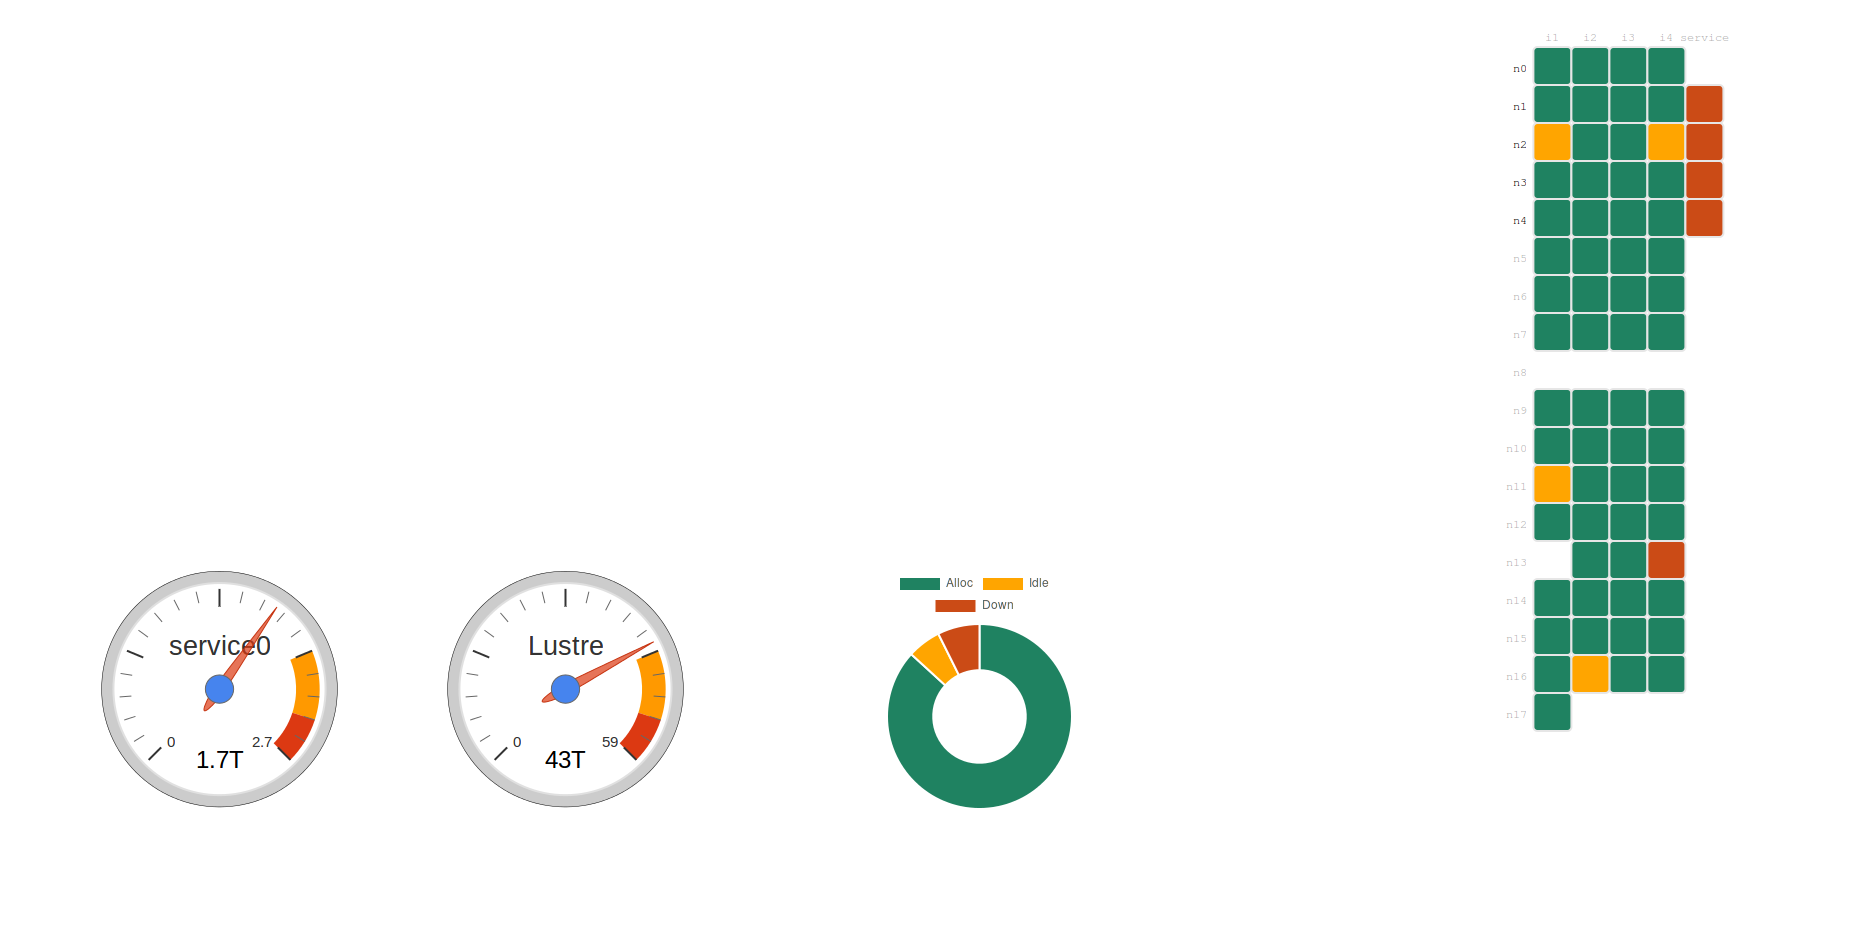
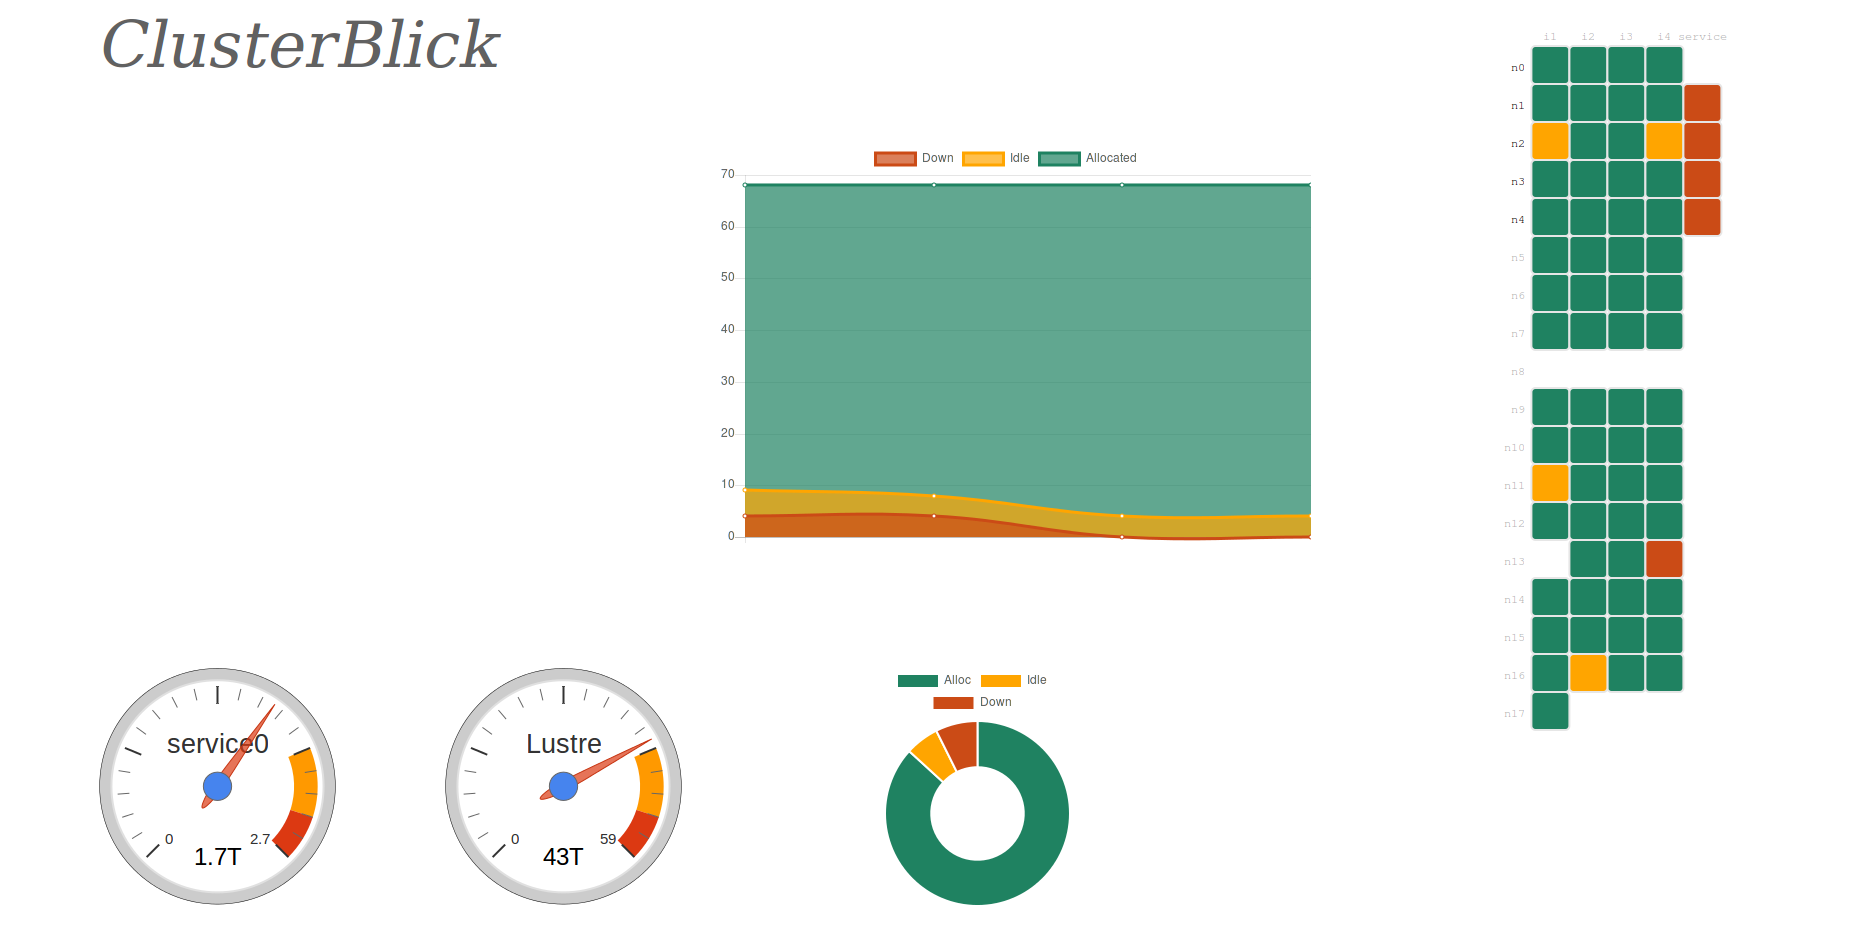
Adding sinfohist line chart and Update readme

diff --git a/host/app/js/sinfohist_line.js b/host/app/js/sinfohist_line.js
@@ -1,0 +1,71 @@
+var canvas = document.getElementById('updating-chart'),
+    ctx = canvas.getContext('2d'),
+
+    startingData = {
+      labels: label_hist,
+      datasets: [
+          {
+            label: "Down",
+            fill: true,
+            backgroundColor: "rgba(203, 75, 22, 0.7)",
+            borderColor: "rgba(203, 75, 22,1)",
+            pointBorderColor: "rgba(203, 75, 22,1)",
+            pointBackgroundColor: "#fff",
+            pointBorderWidth: 0,
+            pointHoverRadius: 10,
+            pointHoverBackgroundColor: "rgba(203, 75, 22,1)",
+            pointRadius: 2,
+            pointHitRadius: 10,
+            data: down_hist
+          },
+          {
+            label: "Idle",
+            fill: true,
+            backgroundColor: "rgba(255, 165, 0, 0.7)",
+            borderColor: "rgba(255, 165, 0,1)",
+            pointBorderColor: "rgba(255, 165, 0,1)",
+            pointBackgroundColor: "#fff",
+            pointBorderWidth: 0,
+            pointHoverRadius: 10,
+            pointHoverBackgroundColor: "rgba(255, 165, 0,1)",
+            pointRadius: 2,
+            pointHitRadius: 10,
+            data: idle_hist
+          },
+          {
+            label: "Allocated",
+            fill: true,
+            backgroundColor: "rgba(31, 130, 97,0.7)",
+            borderColor: "rgba(31, 130, 97,1)",
+            pointBorderColor: "rgba(31, 130, 97,1)",
+            pointBackgroundColor: "#fff",
+            pointBorderWidth: 0,
+            pointHoverRadius: 10,
+            pointHoverBackgroundColor: "rgba(31, 130, 97,1)",
+            pointRadius: 2,
+            pointHitRadius: 10,
+            data: alloc_hist
+          }
+
+      ]
+    };
+
+var sinfoHistChart = new Chart(ctx, {
+  type:'line',
+  data:startingData,
+  options: {
+          scales: {
+            xAxes: [{
+              display:false
+            }],
+            yAxes: [{
+              stacked: true,
+              ticks: {
+                  stepSize: 10
+              }
+            }]
+          },
+          responsive:false,
+          maintainAspectRatio: false
+      }
+});

diff --git a/host/app/index.html b/host/app/index.html
@@ -16,8 +16,10 @@
 
 		<script type="text/javascript" src="js/ssupervisor_dfh1.js"></script>
 		<script type="text/javascript" src="js/nodes_stats.js"></script>
+    <script type="text/javascript" src="js/sinfohist.js"></script>
 		<script type="text/javascript" src="js/actvgauges.js"></script>
     <script type="text/javascript" src="gridnodes.js"></script>
+
 
 		<script>
 			function initialize()
@@ -34,8 +36,15 @@
 			setInterval(function(){
 				reload_js("js/nodes_stats.js");
 				reload_js("js/ssupervisor_dfh1.js");
+        reload_js("js/sinfohist.js");
 				myDoughnutChart.chart.config.data.datasets[0].data=[stats.allocs,stats.idles,stats.downs];
 				myDoughnutChart.update();    //updating donut chart
+        console.log(sinfoHistChart.chart.config.data.datasets[0].data);
+        sinfoHistChart.chart.config.data.datasets[0].data = down_hist;
+        sinfoHistChart.chart.config.data.datasets[1].data = idle_hist;
+        sinfoHistChart.chart.config.data.datasets[2].data = alloc_hist;
+        sinfoHistChart.chart.config.data.labels = label_hist;
+				sinfoHistChart.update();    //updating donut chart
 
         heatmapChart(datasets[0],1); //updating node grid
 			}, 1000);
@@ -65,7 +74,14 @@
 	<body onload="initialize()">
       		<div class="container-fluid" id="left">
 
+            <div class="row title">
+              <p>ClusterBlick</p>
+            </div>
       			<div class="row graphs">
+              <div class="col-sm-4">
+                <div id="sinfohist"><canvas id="updating-chart" width="600" height="400"></canvas></div>
+                <script type="text/javascript" src="js/sinfohist_line.js"></script>
+              </div>
       			</div>
 
 
@@ -75,7 +91,7 @@
       					<span id="lustre"></span>
       				</div>
       				<div class="col-sm-3" >
-      					<div class="donutt"><canvas id="donut"></canvas></div>
+      					<div id="donutt"><canvas id="donut"></canvas></div>
       					<script type="text/javascript" src="js/doghnut.js"></script>
       				</div>
       			</div>

diff --git a/host/app/css/style.css b/host/app/css/style.css
@@ -25,15 +25,27 @@ html, body, .container-fluid{
 .graphs{
 	height: 60%;
 }
+.title p{
+	font-family: modern;
+	font-size: 64px;
+	font-style: oblique;
+	color: #616161;
+	margin-left: 100px;
+	margin-top: 10px;
+}
+
 .row .gauges{
 	padding-left:100px;
 }
 span{
 	margin-right:100px;
 }
-.donutt{
+#donutt{
 	padding-left:100px;
-
+}
+#sinfohist{
+	padding-left: 700px;
+	margin-top: 50px;
 }
 rect.bordered {
 	stroke: #E6E6E6;

diff --git a/host/app/js/sinfohist.js b/host/app/js/sinfohist.js
@@ -1,0 +1,4 @@
+var alloc_hist = [59, 60, 64, 64];
+var idle_hist = [5, 4, 4, 4];
+var down_hist = [4, 4, 0, 0];
+var label_hist = ['2017-01-26 11:14:08', '2017-01-26 11:14:13', '2017-01-26 11:14:18', '2017-01-26 11:14:23'];

diff --git a/host/getRawNodes.py b/host/getRawNodes.py
@@ -114,23 +114,18 @@ def getRawNodesJSON():
 
 	stats_dic={'allocs':allocs,'idles':idles,'downs':downs}
 
-
-
 	return [list_dic,stats_dic,tsv_concat]
 
 
-
-
-
-#Issue: get the sinfohist in another thread
 
 if __name__=="__main__":
 	import json
 	import time, datetime
 	from collections import deque
 
-	alloc_hist,idle_hist,down_hist = deque(),deque(),deque()
+	alloc_hist,idle_hist,down_hist,label_hist = deque(),deque(),deque(),deque()
 	frequency=0
+	th_enable=datetime.datetime.now()-datetime.timedelta(seconds=10)
 
 	while True:
 		now = datetime.datetime.now()
@@ -142,42 +137,46 @@ if __name__=="__main__":
 		OUTFILEPATHtsv = 'app/nodes.tsv'
 		OUTFILEPATHsinfohist = 'app/js/sinfohist.js'
 
+		if now-th_enable>datetime.timedelta(seconds=5):
+			th_enable=datetime.datetime.now()
+			frequency+=1
 
-		if frequency>=60:
+			json_data = json.dumps(list_dic).replace('{','\n{')
+			json_stats = json.dumps(stats_dic)
+			with open(OUTFILEPATHsinfo,'w+') as outfile:
+				outfile.write('var nodes = ')
+				outfile.write(json_data)
+				outfile.write(';')
+			with open(OUTFILEPATHstats,'w+') as outfile:
+				outfile.write('var stats = ')
+				outfile.write(json_stats)
+				outfile.write(';')
+			with open(OUTFILEPATHtsv,'w+') as outfile:
+				outfile.write(tsv_concat)
+			with open(OUTFILEPATHsinfohist,'w+') as outfile:
+				outfile.write('var alloc_hist = ')
+				outfile.write(str(list(alloc_hist)))
+				outfile.write(';\n')
+				outfile.write('var idle_hist = ')
+				outfile.write(str(list(idle_hist)))
+				outfile.write(';\n')
+				outfile.write('var down_hist = ')
+				outfile.write(str(list(down_hist)))
+				outfile.write(';\n')
+				outfile.write('var label_hist = ')
+				outfile.write(str(list(label_hist)))
+				outfile.write(';\n')
+
+		if frequency>=1:
 			frequency=0
 			alloc_hist.append(stats_dic['allocs'])
 			idle_hist.append(stats_dic['idles'])
 			down_hist.append(stats_dic['downs'])
+			label_hist.append(str(datetime.datetime.now().strftime('%Y-%m-%d %H:%M:%S')))
 			if len(alloc_hist)>576:
 				alloc_hist.popleft()
 				idle_hist.popleft()
 				down_hist.popleft()
-		print alloc_hist
+				label_hist.popleft()
 
-		json_data = json.dumps(list_dic).replace('{','\n{')
-		json_stats = json.dumps(stats_dic)
-
-
-		with open(OUTFILEPATHsinfo,'w+') as outfile:
-			outfile.write('var nodes = ')
-			outfile.write(json_data)
-			outfile.write(';')
-		with open(OUTFILEPATHstats,'w+') as outfile:
-			outfile.write('var stats = ')
-			outfile.write(json_stats)
-			outfile.write(';')
-		with open(OUTFILEPATHtsv,'w+') as outfile:
-			outfile.write(tsv_concat)
-		with open(OUTFILEPATHsinfohist,'w+') as outfile:
-			outfile.write('var alloc_hist = ')
-			outfile.write(str(list(alloc_hist)))
-			outfile.write(';')
-			outfile.write('var idle_hist = ')
-			outfile.write(str(list(idle_hist)))
-			outfile.write(';')
-			outfile.write('var down_hist = ')
-			outfile.write(str(list(down_hist)))
-			outfile.write(';')
-
-		frequency+=1
-		time.sleep(5)
+			print alloc_hist

diff --git a/README.md b/README.md
@@ -1,15 +1,20 @@
-# cluster-supervisor
+# clusterblick
 
-This project is a supervisor web application for Slurm scheduled clusters to monitor reports about queue and nodes' state and allocation. It also monitors login's node memory allocation and pings it to check availability. It has the functionality of emailing: in demo version, it sends an email if pings goes wrong or if a setpoint number of nodes goes down.
-
+This project is a supervisor web static application for Slurm scheduled clusters to monitor reports about queue and nodes' state and allocation. It also monitors login's node memory allocation and pings it to check availability. It has the functionality of emailing when not expecting cluster behavior has been detected. The core functionalities are in Python, but visualization gadgets are Javascripts, from D3JS and ChartJS (see references below).
 
 ###cluster
-Contain shell scripts to run in cluster login's node. It basically run sinfo, squeue, df -h and ping commands and send its result to host.
+Contain shell scripts to run in cluster login node. It basically run sinfo, squeue, df -h, ping and top and send its result to host.
+TODO: cluster been executed from host ssh
 
 ###host
-The host is the computer that maintain the supervisor application. It receives cluster report files and manipulate it into JSON objects to use in web application.
+The host is the computer that maintain the supervisor static javascrip application. It receives cluster report files and manipulate it into js objects to use in web application.
 
 ####App demo
 
 ![Demo](https://raw.githubusercontent.com/adelsondias/cluster-supervisor/master/host/app/print.png)
 
+###references
+
+Gauges - http://bl.ocks.org/tomerd/1499279
+Donut and line chart - http://www.chartjs.org/docs/
+Node Grid - http://bl.ocks.org/tjdecke/5558084
